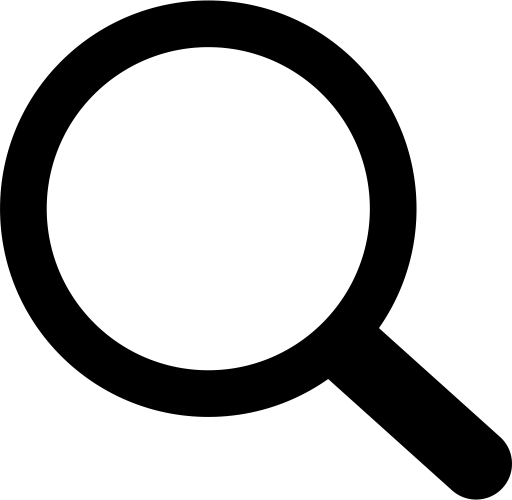
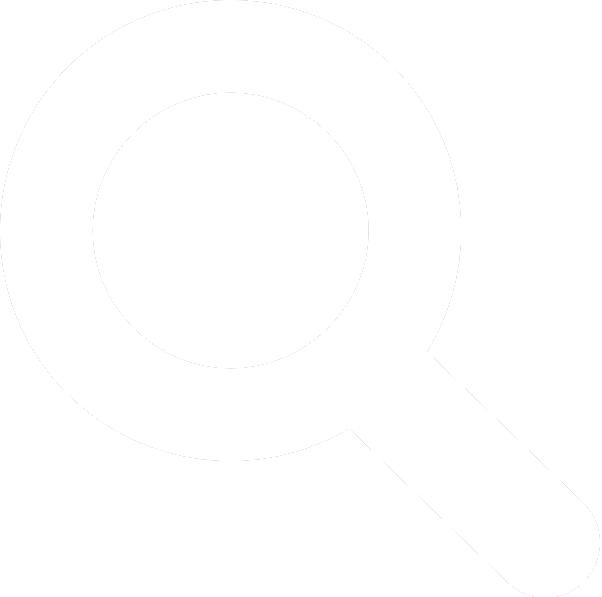
Complete mobile header section

Changed region(s): [[0.0, 0.0, 1.0, 1.0]]

diff --git a/Level-1/Abstract/public/output.css b/Level-1/Abstract/public/output.css
@@ -1,1 +1,1 @@
-#__next,#root{isolation:isolate}html{box-sizing:border-box;font-size:62.5%;overflow-x:hidden;overflow-y:auto;overflow:hidden auto;-moz-tab-size:4;-o-tab-size:4;tab-size:4;word-break:break-all}*,:after,:before{background-color:transparent;background-repeat:no-repeat;box-sizing:inherit;margin:0;padding:0}:after,:before{text-decoration:inherit;vertical-align:inherit}@media (prefers-reduced-motion:reduce){*,:after,:before{animation-delay:-1ms!important;animation-duration:1ms!important;animation-iteration-count:1!important;background-attachment:scroll!important;scroll-behavior:auto!important;transition-delay:0s!important;transition-duration:0s!important}}body{font-family:system-ui,-apple-system,Segoe UI,Roboto,Ubuntu,Cantarell,Noto Sans,sans-serif,Helvetica Neue,Liberation Sans,Arial,Apple Color Emoji,Segoe UI Emoji,Segoe UI Symbol,Noto Color Emoji;font-size:1.6rem;line-height:1.5;min-height:100dvh;overscroll-behavior:none;scroll-behavior:smooth;text-rendering:optimizeSpeed}h1,h2,h3,h4,h5,h6{line-height:1.2}p{word-wrap:break-word;max-width:40ch}li{list-style-type:none}table{border-collapse:collapse}textarea{resize:vertical}audio,canvas,iframe,svg,video{vertical-align:middle}button,fieldset{border:0}[tabindex],a,area,button,input,label,select,summary,textarea{touch-action:manipulation}button:disabled{opacity:.5;pointer-events:none}[aria-busy=true]{cursor:progress}a{animation:none 0s ease 0s 1 normal none running;backface-visibility:visible;background:transparent none repeat 0 0/auto auto padding-box border-box scroll;border:none;border-collapse:separate;-o-border-image:none;border-image:none;border-radius:0;border-spacing:0;bottom:auto;box-shadow:none;box-sizing:content-box;caption-side:top;clear:none;clip:auto;all:initial;color:#000;-moz-columns:auto;-moz-column-count:auto;-moz-column-fill:balance;column-fill:balance;-moz-column-gap:normal;column-gap:normal;-moz-column-rule:medium none currentcolor;column-rule:medium none currentcolor;-moz-column-span:1;column-span:1;-moz-column-width:auto;columns:auto;content:normal;counter-increment:none;counter-reset:none;cursor:auto;display:inline;empty-cells:show;float:none;font-family:serif;font-size:medium;font-stretch:normal;font-style:normal;font-variant:normal;font-weight:400;height:auto;-webkit-hyphens:none;hyphens:none;left:auto;letter-spacing:normal;line-height:normal;list-style:disc none outside;margin:0;max-height:none;max-width:none;min-height:0;min-width:0;opacity:1;orphans:2;outline:medium none currentcolor;overflow:visible;overflow-x:visible;overflow-y:visible;padding:0;page-break-after:auto;page-break-before:auto;page-break-inside:auto;perspective:none;perspective-origin:50% 50%;position:static;right:auto;-moz-tab-size:8;-o-tab-size:8;tab-size:8;table-layout:auto;text-align:left;-moz-text-align-last:auto;text-align-last:auto;-webkit-text-decoration:none;text-decoration:none;text-indent:0;text-shadow:none;text-transform:none;top:auto;transform:none;transform-origin:50% 50% 0;transform-style:flat;transition:none 0s ease 0s;vertical-align:baseline;visibility:visible;white-space:normal;widows:2;width:auto;word-spacing:normal;z-index:auto;-moz-column-break-inside:avoid;break-inside:avoid;-moz-column-break-before:avoid-column;break-before:avoid-column;-moz-column-break-after:always;break-after:always}a:active,a:hover{outline:.1rem solid}a:has(>img){display:block}a:not([class]){-webkit-text-decoration-skip:ink;text-decoration-skip-ink:auto}a[href^=http]:empty:before{content:attr(href)}a,button{cursor:pointer}a:focus,button:focus,input:focus,select:focus,textarea:focus{box-shadow:none;outline:2px solid #000;outline-offset:.05em}iframe,input,select,textarea{height:auto;max-width:100%}:focus:not(:focus-visible){outline:0}form:focus-within{background:rgba(0,0,0,.3)}[aria-hidden=false][hidden]{display:inline;display:initial}[aria-hidden=false][hidden]:not(:focus){clip:rect(0,0,0,0);position:absolute}[type=checkbox],[type=radio]{all:revert}[type=color],[type=range]{border-width:0}[type=number]{cursor:text}[type=search]{-webkit-appearance:textfield;-moz-appearance:textfield;appearance:textfield}[type=radio]{border-radius:50%}code,kbd,pre,samp{font-family:Menlo,Consolas,Roboto Mono,Ubuntu Monospace,Noto Mono,Oxygen Mono,Liberation Mono,monospace}svg:not([fill]){fill:currentColor}img{background-repeat:no-repeat;background-size:cover;font-style:italic;height:auto;max-width:100%;shape-margin:.75rem;vertical-align:middle}img:before{content:"We're sorry, the image below is broken :(";display:block;margin-bottom:10px}img:after{content:"(url: " attr(src) ")";display:block;font-size:12px}button,input,select,textarea{background-color:transparent;border:1px solid WindowFrame;color:inherit;font:inherit;letter-spacing:inherit;padding:.25em .375em}.icon-only:after{content:attr(aria-label)}br+br,video[autoplay]:not([muted]){display:none}$black-color:#000;$lilac-color:#dadbf1;$purple-color:#4d5fd5;.container{max-width:1200px}.row{display:flex;flex-direction:row}.column{display:flex;flex-direction:column}.btn{cursor:pointer}.is-hidden{display:none}
+#__next,Apply isolation property to root and next elements #root{isolation:isolate}html{box-sizing:border-box;font-size:62.5%;overflow-x:hidden;overflow-y:auto;overflow:hidden auto;-moz-tab-size:4;-o-tab-size:4;tab-size:4;word-break:break-all}*,:after,:before{background-color:transparent;background-repeat:no-repeat;box-sizing:inherit;margin:0;padding:0}:after,:before{text-decoration:inherit;vertical-align:inherit}@media (prefers-reduced-motion:reduce){*,:after,:before{animation-delay:-1ms!important;animation-duration:1ms!important;animation-iteration-count:1!important;background-attachment:scroll!important;scroll-behavior:auto!important;transition-delay:0s!important;transition-duration:0s!important}}body{font-family:system-ui,-apple-system,Segoe UI,Roboto,Ubuntu,Cantarell,Noto Sans,sans-serif,Helvetica Neue,Liberation Sans,Arial,Apple Color Emoji,Segoe UI Emoji,Segoe UI Symbol,Noto Color Emoji;font-size:1.6rem;line-height:1.5;min-height:100dvh;overscroll-behavior:none;scroll-behavior:smooth;text-rendering:optimizeSpeed}h1,h2,h3,h4,h5,h6{line-height:1.2}p{word-wrap:break-word;max-width:40ch}li{list-style-type:none}table{border-collapse:collapse}textarea{resize:vertical}audio,canvas,iframe,svg,video{vertical-align:middle}button,fieldset{border:0}[tabindex],a,area,button,input,label,select,summary,textarea{touch-action:manipulation}button:disabled{opacity:.5;pointer-events:none}[aria-busy=true]{cursor:progress}a{animation:none 0s ease 0s 1 normal none running;backface-visibility:visible;background:transparent none repeat 0 0/auto auto padding-box border-box scroll;border:none;border-collapse:separate;-o-border-image:none;border-image:none;border-radius:0;border-spacing:0;bottom:auto;box-shadow:none;box-sizing:content-box;caption-side:top;clear:none;clip:auto;all:initial;color:#000;-moz-columns:auto;-moz-column-count:auto;-moz-column-fill:balance;column-fill:balance;-moz-column-gap:normal;column-gap:normal;-moz-column-rule:medium none currentcolor;column-rule:medium none currentcolor;-moz-column-span:1;column-span:1;-moz-column-width:auto;columns:auto;content:normal;counter-increment:none;counter-reset:none;cursor:auto;display:inline;empty-cells:show;float:none;font-family:serif;font-size:medium;font-stretch:normal;font-style:normal;font-variant:normal;font-weight:400;height:auto;-webkit-hyphens:none;hyphens:none;left:auto;letter-spacing:normal;line-height:normal;list-style:disc none outside;margin:0;max-height:none;max-width:none;min-height:0;min-width:0;opacity:1;orphans:2;outline:medium none currentcolor;overflow:visible;overflow-x:visible;overflow-y:visible;padding:0;page-break-after:auto;page-break-before:auto;page-break-inside:auto;perspective:none;perspective-origin:50% 50%;position:static;right:auto;-moz-tab-size:8;-o-tab-size:8;tab-size:8;table-layout:auto;text-align:left;-moz-text-align-last:auto;text-align-last:auto;-webkit-text-decoration:none;text-decoration:none;text-indent:0;text-shadow:none;text-transform:none;top:auto;transform:none;transform-origin:50% 50% 0;transform-style:flat;transition:none 0s ease 0s;vertical-align:baseline;visibility:visible;white-space:normal;widows:2;width:auto;word-spacing:normal;z-index:auto;-moz-column-break-inside:avoid;break-inside:avoid;-moz-column-break-before:avoid-column;break-before:avoid-column;-moz-column-break-after:always;break-after:always}a:has(>img){display:block}a:not([class]){-webkit-text-decoration-skip:ink;text-decoration-skip-ink:auto}a[href^=http]:empty:before{content:attr(href)}a,button{cursor:pointer}a:focus,button:focus,input:focus,select:focus,textarea:focus{box-shadow:none;outline:2px solid #000;outline-offset:.05em}iframe,input,select,textarea{height:auto;max-width:100%}:focus:not(:focus-visible){outline:0}form:focus-within{background:rgba(0,0,0,.3)}[aria-hidden=false][hidden]{display:inline;display:initial}[aria-hidden=false][hidden]:not(:focus){clip:rect(0,0,0,0);position:absolute}[type=checkbox],[type=radio]{all:revert}[type=color],[type=range]{border-width:0}[type=number]{cursor:text}[type=search]{-webkit-appearance:textfield;-moz-appearance:textfield;appearance:textfield}[type=radio]{border-radius:50%}code,kbd,pre,samp{font-family:Menlo,Consolas,Roboto Mono,Ubuntu Monospace,Noto Mono,Oxygen Mono,Liberation Mono,monospace}svg:not([fill]){fill:currentColor}img{background-repeat:no-repeat;background-size:cover;font-style:italic;height:auto;max-width:100%;shape-margin:.75rem;vertical-align:middle}img:before{content:"We're sorry, the image below is broken :(";display:block;margin-bottom:10px}img:after{content:"(url: " attr(src) ")";display:block;font-size:12px}button,input,select,textarea{background-color:transparent;border:1px solid WindowFrame;color:inherit;font:inherit;letter-spacing:inherit;padding:.25em .375em}.icon-only:after{content:attr(aria-label)}br+br,video[autoplay]:not([muted]){display:none}:root{--black-color:#000;--lilac-color:#dadbf1;--purple-color:#4d5fd5;--animation-curve:cubic-bezier(1,0,0,1)}.container{max-width:1200px}.row{display:flex;flex-direction:row}.column{display:flex;flex-direction:column}.btn{cursor:pointer}.is-hidden{display:none}.header-section{background-color:#000;background-color:var(--black-color);padding:.7rem}.header-section__top-container{align-items:center;justify-content:space-between}.header-section__nav{align-items:center;-moz-column-gap:1rem;column-gap:1rem}.header-section__logo{color:#fff;height:1.8rem;transition:color .2s}.header-section__logo .abstract-logo-mark,.header-section__logo .abstract-logo-wordmark{cursor:pointer}.header-section__logo:hover{color:#d3d3d3}.header-section__link{color:#fff;font-size:1.4rem;position:relative}.header-section__link:before{bottom:0;content:"|";font-size:1.8rem;font-weight:700;left:-.7rem;position:absolute}.header-section__link:hover{-webkit-text-decoration:underline;text-decoration:underline}.header-section__buttons-container{align-items:center;-moz-column-gap:.3rem;column-gap:.3rem;padding-right:2rem}.header-section__search-btn img{height:1.5rem;transition:transform .2s}.header-section__search-btn img:hover{transform:scale(1.1)}.header-section__toggle-btn label{background-color:#fff;cursor:pointer;height:.3rem;position:absolute;width:2rem}.header-section__toggle-btn label:after,.header-section__toggle-btn label:before{background-color:transparent;color:#fff;content:"";display:block;position:absolute;transition:all .2s cubic-bezier(1,0,0,1);transition:all .2s var(--animation-curve);width:2rem}.header-section__toggle-btn label:before{border-top:.3rem solid #fff;height:.7rem;left:0;top:-250%;transform:rotate(0deg);transform-origin:left top}.header-section__toggle-btn label:after{border-bottom:.3rem solid #fff;bottom:-250%;height:.7rem;left:0;transform:rotate(0deg);transform-origin:left bottom}.header-section__checkbox-input{display:none}.header-section__checkbox-input~label{transition:all .2s cubic-bezier(1,0,0,1);transition:all .2s var(--animation-curve)}.header-section__checkbox-input:checked~label{background-color:transparent}.header-section__checkbox-input:checked~label:after,.header-section__checkbox-input:checked~label:before{background-color:#fff;border:none;content:"";height:.2rem;left:10%}.header-section__checkbox-input:checked~label:before{transform:rotate(57deg)}.header-section__checkbox-input:checked~label:after{transform:rotate(-57deg)}

diff --git a/Level-1/Abstract/public/index.html b/Level-1/Abstract/public/index.html
@@ -17,49 +17,44 @@
 		<header class="header-section">
 			<div class="header-section__top-container container row">
 				<nav class="header-section__nav row">
-					<a
-						class="header-section__link"
+					<svg
+						class="header-section__logo"
 						title="Go to goabstract.com"
-						href="https://www.goabstract.com">
-						<svg
-							class="header-section__logo"
-							aria-label="goabstract logo"
-							xmlns="http://www.w3.org/2000/svg"
-							viewBox="0 0 200 51"
-							preserveAspectRatio="xMinYMid slice">
-							<g class="abstract-logo-mark" fill="#fff">
-								<path
-									d="M25.41 0C5.08 0 0 5.08 0 25.41s5.08 25.41 25.41 25.41 25.41-5.08 25.41-25.41S45.74 0 25.41 0zm-4.17 39.31A9.73 9.73 0 1 1 31 29.58a9.75 9.75 0 0 1-9.76 9.73zm17.67-.4h-4.77V16.67H11.91v-4.76h27z"></path>
-								<circle cx="21.24" cy="29.58" r="4.96"></circle>
-							</g>
-							<g class="abstract-logo-wordmark" fill="#fff">
-								<path
-									class="abstract-logo-letter-1"
-									d="M70.9 28.81c2.37-6.59 3.32-9.26 4.19-12 1.26 3.92 2.56 7.58 4.08 12zM72.54 12L62.33 38.91h5.22l2.17-6.29h10.63l2.13 6.29h5.26L77.91 12z"></path>
-								<path
-									class="abstract-logo-letter-2"
-									d="M98.43 35.56c-2.82 0-4.46-2.33-4.46-6.37 0-3.62 1.91-5.9 4.61-5.9 2.55 0 4.12 2.32 4.12 6.13 0 4-1.64 6.14-4.27 6.14m-4.34-13.07V12h-4.46v26.9h4.27v-2.47a6.31 6.31 0 0 0 5.63 2.86c4.69 0 7.81-3.66 7.81-9.87s-2.85-9.87-7.31-9.87a7.3 7.3 0 0 0-5.94 2.94z"></path>
-								<path
-									class="abstract-logo-letter-3"
-									d="M116.71 22.8a4.77 4.77 0 0 1 4.29 2.67l3.32-2.25a8.44 8.44 0 0 0-7.48-3.82c-4.69 0-7.36 2.75-7.36 5.73s1.87 4.61 4.81 5.53l2 .65c2.86.91 3.51 1.45 3.51 2.71s-1.07 2-3 2a5.34 5.34 0 0 1-4.84-3.09l-3.47 2.29a9.35 9.35 0 0 0 8.12 4.27c4.73 0 7.67-2.56 7.67-6.07 0-3-1.91-4.61-5.26-5.68l-2-.61c-2.44-.76-3-1.3-3-2.44s.92-1.87 2.82-1.87"></path>
-								<path
-									class="abstract-logo-letter-4"
-									d="M133.3 23.52h3.7V20h-3.7v-6.2h-4.44l-.08 6.2h-3v3.57h3v10.4a5.92 5.92 0 0 0 1.07 4c.77.92 2 1.38 3.9 1.38a13.24 13.24 0 0 0 3.32-.43v-3.59a5.51 5.51 0 0 1-1.83.35c-1.38 0-1.94-.69-1.94-2.64z"></path>
-								<path
-									class="abstract-logo-letter-5"
-									d="M143.77 20h-4.27v19h4.5v-8.88a7.63 7.63 0 0 1 1-4.36 4.43 4.43 0 0 1 4-1.89 6.15 6.15 0 0 1 1.64.25V20a5.3 5.3 0 0 0-1.64-.3 5.44 5.44 0 0 0-5.26 3.18z"></path>
-								<path
-									class="abstract-logo-letter-6"
-									d="M163.54 30.93a5.57 5.57 0 0 1-.84 3 4.61 4.61 0 0 1-4 2c-2 0-2.9-1-2.9-2.4a2.34 2.34 0 0 1 1.64-2.33 18.72 18.72 0 0 1 6.07-1.15zm4.25-4c0-3-.4-4.54-1.58-5.65s-3.09-1.83-5.69-1.83c-4.85 0-7.91 2.29-8.21 6.42l4.28.38c.23-2.1 1.26-3.29 3.59-3.29a3.65 3.65 0 0 1 2.63.81 3 3 0 0 1 .73 2.29v1c-3 .19-6.68.72-8.55 1.56a5.25 5.25 0 0 0-3.48 5.08c0 3.4 2.45 5.57 5.92 5.57a7.63 7.63 0 0 0 6.22-2.71c.41 1.9 1.75 2.61 4.14 2.61a6.21 6.21 0 0 0 2-.31V36c-1.73.31-2-.7-2-2.18z"></path>
-								<path
-									class="abstract-logo-letter-7"
-									d="M175.35 29.31c0-4.23 2-6.17 4.57-6.17 1.8 0 3.17.84 3.7 3.35l4-1.37A7.33 7.33 0 0 0 180 19.4c-5.69 0-9.27 3.78-9.27 10s3.51 10.06 9 10.06c4.31 0 6.83-2.28 7.93-5.45l-4-1.37a3.51 3.51 0 0 1-3.7 3.09c-2.86-.01-4.61-2.22-4.61-6.42z"></path>
-								<path
-									class="abstract-logo-letter-8"
-									d="M196.23 23.52h3.67V20h-3.67v-6.2h-4.44l-.08 6.2h-3v3.57h3v10.4a5.92 5.92 0 0 0 1.07 4c.77.92 2 1.38 3.9 1.38a13.24 13.24 0 0 0 3.32-.43v-3.59a5.51 5.51 0 0 1-1.83.35c-1.38 0-1.94-.69-1.94-2.64z"></path>
-							</g>
-						</svg>
-					</a>
+						xmlns="http://www.w3.org/2000/svg"
+						viewBox="0 0 200 51"
+						preserveAspectRatio="xMinYMid slice">
+						<g class="abstract-logo-mark" fill="currentColor">
+							<path
+								d="M25.41 0C5.08 0 0 5.08 0 25.41s5.08 25.41 25.41 25.41 25.41-5.08 25.41-25.41S45.74 0 25.41 0zm-4.17 39.31A9.73 9.73 0 1 1 31 29.58a9.75 9.75 0 0 1-9.76 9.73zm17.67-.4h-4.77V16.67H11.91v-4.76h27z"></path>
+							<circle cx="21.24" cy="29.58" r="4.96"></circle>
+						</g>
+						<g class="abstract-logo-wordmark" fill="currentColor">
+							<path
+								class="abstract-logo-letter-1"
+								d="M70.9 28.81c2.37-6.59 3.32-9.26 4.19-12 1.26 3.92 2.56 7.58 4.08 12zM72.54 12L62.33 38.91h5.22l2.17-6.29h10.63l2.13 6.29h5.26L77.91 12z"></path>
+							<path
+								class="abstract-logo-letter-2"
+								d="M98.43 35.56c-2.82 0-4.46-2.33-4.46-6.37 0-3.62 1.91-5.9 4.61-5.9 2.55 0 4.12 2.32 4.12 6.13 0 4-1.64 6.14-4.27 6.14m-4.34-13.07V12h-4.46v26.9h4.27v-2.47a6.31 6.31 0 0 0 5.63 2.86c4.69 0 7.81-3.66 7.81-9.87s-2.85-9.87-7.31-9.87a7.3 7.3 0 0 0-5.94 2.94z"></path>
+							<path
+								class="abstract-logo-letter-3"
+								d="M116.71 22.8a4.77 4.77 0 0 1 4.29 2.67l3.32-2.25a8.44 8.44 0 0 0-7.48-3.82c-4.69 0-7.36 2.75-7.36 5.73s1.87 4.61 4.81 5.53l2 .65c2.86.91 3.51 1.45 3.51 2.71s-1.07 2-3 2a5.34 5.34 0 0 1-4.84-3.09l-3.47 2.29a9.35 9.35 0 0 0 8.12 4.27c4.73 0 7.67-2.56 7.67-6.07 0-3-1.91-4.61-5.26-5.68l-2-.61c-2.44-.76-3-1.3-3-2.44s.92-1.87 2.82-1.87"></path>
+							<path
+								class="abstract-logo-letter-4"
+								d="M133.3 23.52h3.7V20h-3.7v-6.2h-4.44l-.08 6.2h-3v3.57h3v10.4a5.92 5.92 0 0 0 1.07 4c.77.92 2 1.38 3.9 1.38a13.24 13.24 0 0 0 3.32-.43v-3.59a5.51 5.51 0 0 1-1.83.35c-1.38 0-1.94-.69-1.94-2.64z"></path>
+							<path
+								class="abstract-logo-letter-5"
+								d="M143.77 20h-4.27v19h4.5v-8.88a7.63 7.63 0 0 1 1-4.36 4.43 4.43 0 0 1 4-1.89 6.15 6.15 0 0 1 1.64.25V20a5.3 5.3 0 0 0-1.64-.3 5.44 5.44 0 0 0-5.26 3.18z"></path>
+							<path
+								class="abstract-logo-letter-6"
+								d="M163.54 30.93a5.57 5.57 0 0 1-.84 3 4.61 4.61 0 0 1-4 2c-2 0-2.9-1-2.9-2.4a2.34 2.34 0 0 1 1.64-2.33 18.72 18.72 0 0 1 6.07-1.15zm4.25-4c0-3-.4-4.54-1.58-5.65s-3.09-1.83-5.69-1.83c-4.85 0-7.91 2.29-8.21 6.42l4.28.38c.23-2.1 1.26-3.29 3.59-3.29a3.65 3.65 0 0 1 2.63.81 3 3 0 0 1 .73 2.29v1c-3 .19-6.68.72-8.55 1.56a5.25 5.25 0 0 0-3.48 5.08c0 3.4 2.45 5.57 5.92 5.57a7.63 7.63 0 0 0 6.22-2.71c.41 1.9 1.75 2.61 4.14 2.61a6.21 6.21 0 0 0 2-.31V36c-1.73.31-2-.7-2-2.18z"></path>
+							<path
+								class="abstract-logo-letter-7"
+								d="M175.35 29.31c0-4.23 2-6.17 4.57-6.17 1.8 0 3.17.84 3.7 3.35l4-1.37A7.33 7.33 0 0 0 180 19.4c-5.69 0-9.27 3.78-9.27 10s3.51 10.06 9 10.06c4.31 0 6.83-2.28 7.93-5.45l-4-1.37a3.51 3.51 0 0 1-3.7 3.09c-2.86-.01-4.61-2.22-4.61-6.42z"></path>
+							<path
+								class="abstract-logo-letter-8"
+								d="M196.23 23.52h3.67V20h-3.67v-6.2h-4.44l-.08 6.2h-3v3.57h3v10.4a5.92 5.92 0 0 0 1.07 4c.77.92 2 1.38 3.9 1.38a13.24 13.24 0 0 0 3.32-.43v-3.59a5.51 5.51 0 0 1-1.83.35c-1.38 0-1.94-.69-1.94-2.64z"></path>
+						</g>
+					</svg>
 					<a class="header-section__link" title="Home" href="#">Help Center</a>
 				</nav>
 				<form

diff --git a/Level-1/Abstract/src/styles/input.css b/Level-1/Abstract/src/styles/input.css
@@ -1,8 +1,11 @@
 @import './init.css';
 
-$black-color: hsl(0, 0%, 0%);
-$lilac-color: hsl(237, 45%, 90%);
-$purple-color: hsl(232, 62%, 57%);
+:root {
+	--black-color: hsl(0, 0%, 0%);
+	--lilac-color: hsl(237, 45%, 90%);
+	--purple-color: hsl(232, 62%, 57%);
+	--animation-curve: cubic-bezier(1, 0, 0, 1);
+}
 
 .container {
 	max-width: 1200px;
@@ -24,4 +27,141 @@ $purple-color: hsl(232, 62%, 57%);
 
 .is-hidden {
 	display: none;
+}
+.header-section {
+	background-color: var(--black-color);
+	padding: 0.7rem;
+	&__top-container {
+		justify-content: space-between;
+		align-items: center;
+	}
+
+	&__nav {
+		align-items: center;
+		column-gap: 1rem;
+	}
+
+	&__logo {
+		height: 1.8rem;
+		color: white;
+		transition: color 0.2s;
+
+		.abstract-logo-mark,
+		.abstract-logo-wordmark {
+			cursor: pointer;
+		}
+
+		&:hover {
+			color: lightgray;
+		}
+	}
+
+	&__link {
+		color: white;
+		font-size: 1.4rem;
+		position: relative;
+
+		&:before {
+			content: '|';
+			position: absolute;
+			left: -0.7rem;
+			bottom: 0;
+			font-size: 1.8rem;
+			font-weight: bold;
+		}
+
+		&:hover {
+			text-decoration: underline;
+		}
+	}
+
+	&__buttons-container {
+		align-items: center;
+		column-gap: 0.3rem;
+		padding-right: 2rem;
+	}
+
+	&__search-btn {
+		img {
+			height: 1.5rem;
+			transition: transform 0.2s;
+
+			&:hover {
+				transform: scale(1.1);
+			}
+		}
+	}
+
+	&__action-form {
+	}
+
+	&__toggle-btn {
+		& label {
+			width: 2rem;
+			height: 0.3rem;
+			background-color: white;
+			position: absolute;
+			cursor: pointer;
+
+			&::before,
+			&::after {
+				content: '';
+				width: 2rem;
+				background-color: transparent;
+				position: absolute;
+				display: block;
+				color: white;
+				transition: all 0.2s var(--animation-curve);
+			}
+			&::before {
+				top: -250%;
+				left: 0%;
+				height: 0.7rem;
+				border-top: 0.3rem solid white;
+				transform: rotateZ(0deg);
+				transform-origin: left top;
+			}
+			&::after {
+				bottom: -250%;
+				left: 0%;
+				height: 0.7rem;
+				border-bottom: 0.3rem solid white;
+				transform: rotateZ(0deg);
+				transform-origin: left bottom;
+			}
+		}
+	}
+
+	&__checkbox-input {
+		display: none;
+
+		& ~ label {
+			transition: all 0.2s var(--animation-curve);
+		}
+
+		&:checked ~ label {
+			background-color: transparent;
+
+			&::before,
+			&::after {
+				content: '';
+				border: none;
+				height: 0.2rem;
+				background-color: white;
+				left: 10%;
+			}
+
+			&::before {
+				transform: rotateZ(57deg);
+			}
+
+			&::after {
+				transform: rotateZ(-57deg);
+			}
+		}
+	}
+}
+
+@media (min-width: 1200px) {
+	/* Hamburger Menu */
 }

diff --git a/Level-1/Abstract/src/styles/init.css b/Level-1/Abstract/src/styles/init.css
@@ -1,5 +1,4 @@
-/* Apply isolation property to root and next elements */
-#root,
+Apply isolation property to root and next elements #root,
 #__next {
 	isolation: isolate;
 }
@@ -135,12 +134,6 @@ a {
 	break-inside: avoid;
 	break-before: avoid-column;
 	break-after: always;
-}
-
-/* Apply outline style on active and hovered links */
-a:active,
-a:hover {
-	outline: 0.1rem solid;
 }
 
 /* Display links as blocks if they contain images directly */
